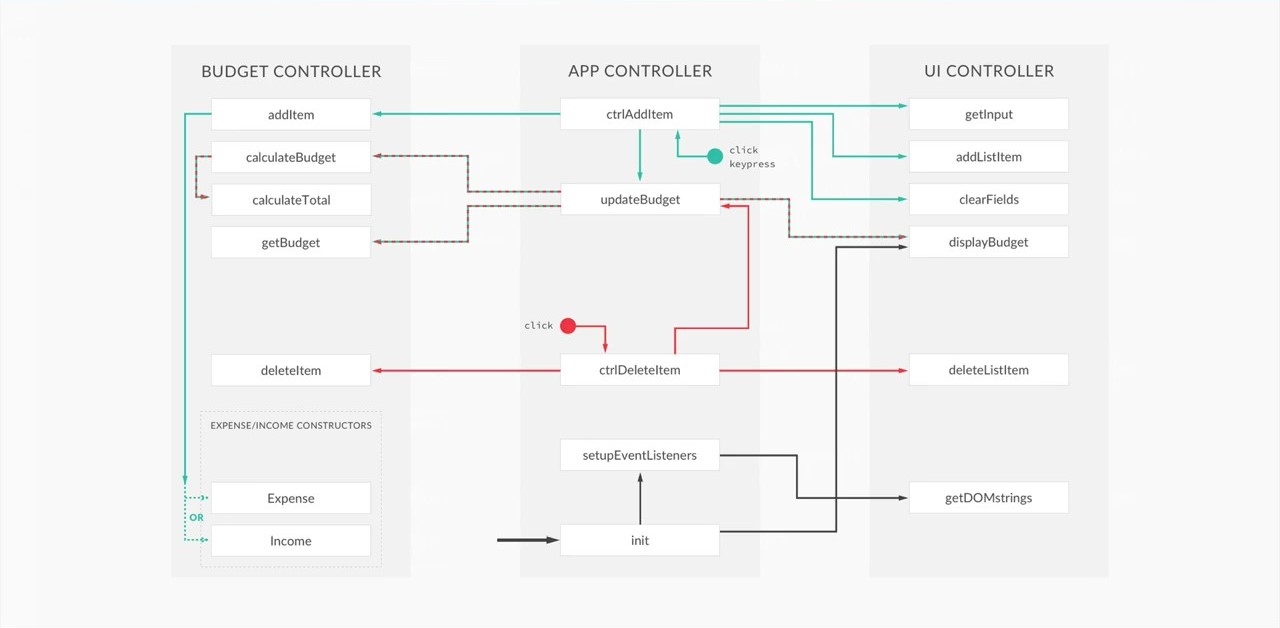
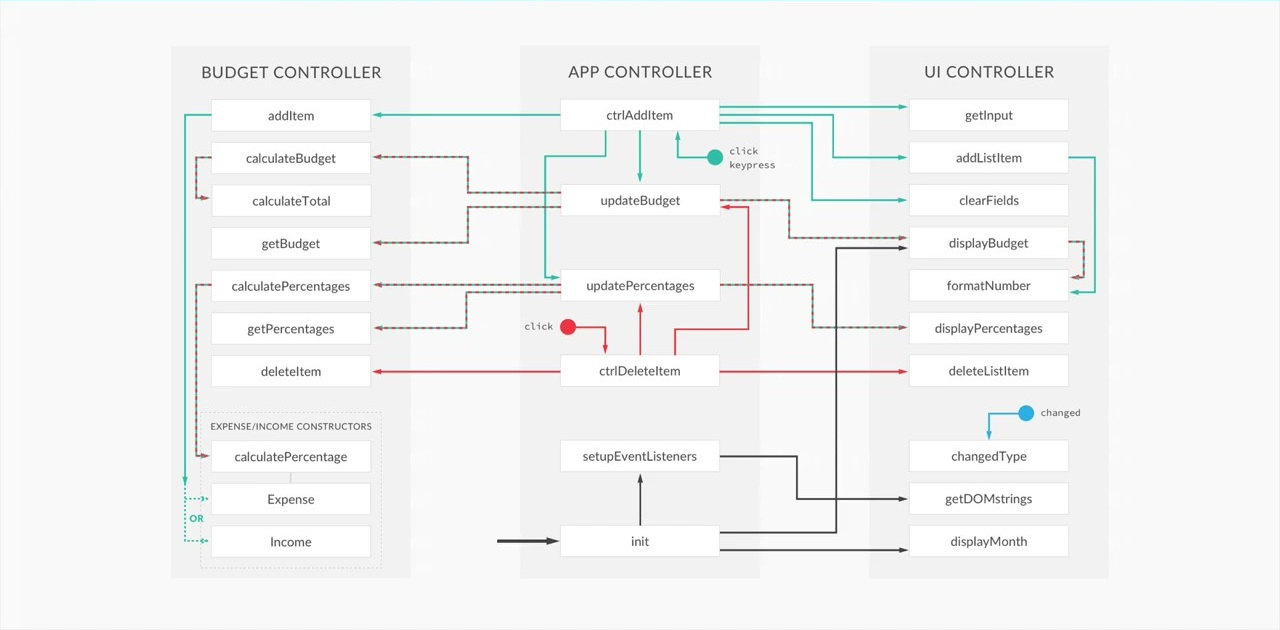
added a function to fetch the current date and display it. made small ui changes. refactored code, updated readme.

diff --git a/app.js b/app.js
@@ -117,7 +117,8 @@ $(function () {
             budgetPercentage: ".budget__expenses--percentage",
             budget: ".budget__value",
             container: ".container",
-            expensesPercentage: ".item__percentage"
+            expensesPercentage: ".item__percentage",
+            dateLabel: ".budget__title--month"
         };
 
         return {
@@ -137,13 +138,13 @@ $(function () {
                 if (type === "inc") {
                     $(DOMStrings.incomeContainer).append(`<div class="item clearfix" id="income-` + data_obj.id + `">
                  <div class="item__description">` + data_obj.description + `</div><div class="right clearfix">
-                 <div class="item__value">+` + data_obj.value + `</div><div class="item__delete">
+                 <div class="item__value">+ ` + $.number(data_obj.value, 2) + `</div><div class="item__delete">
                  <button class="item__delete--btn"><i class="ion-ios-close-outline"></i>
                  </button></div></div></div>`);
                 } else {
                     $(DOMStrings.expensesContainer).append(`<div class="item clearfix" id="expense-` + data_obj.id + `">
                   <div class="item__description">` + data_obj.description + `</div> <div class="right clearfix">
-                  <div class="item__value">- ` + data_obj.value + `</div> <div class="item__percentage">TODO (21%)</div>
+                  <div class="item__value">- ` + $.number(data_obj.value, 2) + `</div> <div class="item__percentage">TODO (21%)</div>
                   <div class="item__delete"> <button class="item__delete--btn">
                   <i class="ion-ios-close-outline"></i></button> </div> </div> </div>`);
                 }
@@ -152,9 +153,9 @@ $(function () {
             }, clearFields: function () {
                 $(DOMStrings.inputDescription + ', ' + DOMStrings.inputValue).val('');
             }, displayBudget: function (data) {
-                $(DOMStrings.budget).text(data.budget);
-                $(DOMStrings.budgetIncome).text(data.total_income);
-                $(DOMStrings.budgetExpenses).text(data.total_expenses);
+                $(DOMStrings.budget).text($.number(data.budget, 2));
+                $(DOMStrings.budgetIncome).text($.number(data.total_income, 2));
+                $(DOMStrings.budgetExpenses).text($.number(data.total_expenses, 2));
                 if (data.percentage > 0) {
                     $(DOMStrings.budgetPercentage).text(data.percentage + "%");
 
@@ -163,18 +164,32 @@ $(function () {
                 }
             }, updatePercentages: function (percentages) {
                 $(DOMStrings.expensesPercentage).each(function (index) {
-                    console.log(index + ": " + $( this ).text() );
+                    console.log(index + ": " + $(this).text());
                     if (percentages[index] > 0) {
                         $(this).text(percentages[index] + "%");
                     } else {
                         $(this).text("---");
                     }
                 });
+            }, displayDate: function () {
+                const months = ["January", "February", "March", "April", "May", "June",
+                    "July", "August", "September", "October", "November", "December"
+                ];
+                var date = new Date();
+                $(DOMStrings.dateLabel).text(months[date.getMonth()] + ", " + date.getFullYear());
+
+            }, changedType: function () {
+                $(DOMStrings.inputType).change(function () {
+                    $(DOMStrings.inputType + ", " + DOMStrings.inputDescription + ", " + DOMStrings.inputValue).toggleClass("red-focus");
+                    $(DOMStrings.inputBtn).toggleClass("red");
+                });
             }
         };
     })();
 
-// Global Controller
+    uiController.displayDate();
+
+    // Global Controller
     var controller = (function (budgetCtrl, uiCtrl) {
 
         var DOM = uiCtrl.get_DOM();
@@ -191,6 +206,8 @@ $(function () {
             console.log(budgetCtrl.getPercentages());
             uiCtrl.updatePercentages(budgetCtrl.getPercentages());
         };
+
+        uiCtrl.changedType();
         // container is shared by expenses list and income list. event delegation process
         $(DOM.container).on("click", function (event) {
             var item = event.target.parentNode.parentNode.parentNode.parentNode.id;

diff --git a/index.html b/index.html
@@ -118,7 +118,8 @@
 
 
         </div>
-        <script src="https://code.jquery.com/jquery-3.3.1.min.js"></script>
+        <script src="dependencies/jquery-3.3.1.min.js"></script>
+        <script src= "dependencies/jquery.number.min.js"></script>
         <script src="app.js"></script>
     </body>
 </html>

diff --git a/README.md b/README.md
@@ -13,3 +13,4 @@ ledger or income and expenses and plan finances accordingly
 
 #### Dependencies
 * JQUERY
+* JQUERY Number Plugin
